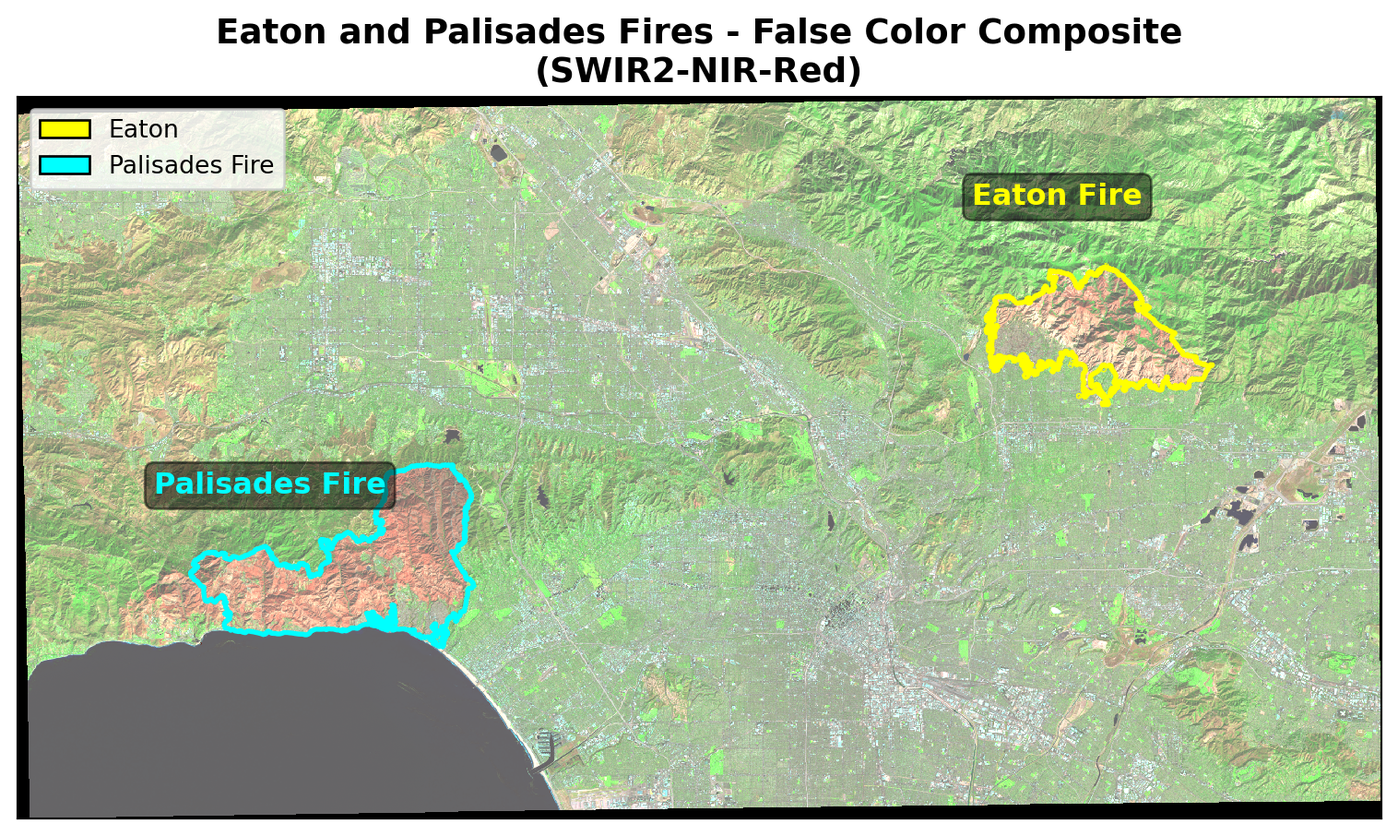
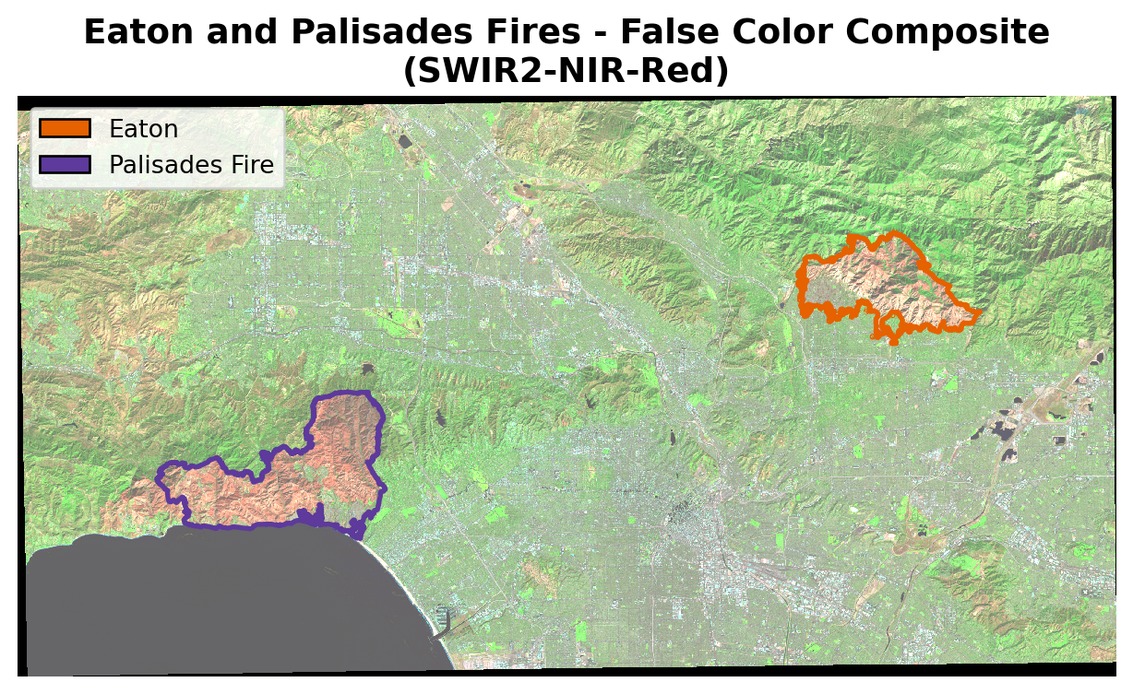
social map fixed.

diff --git a/docs/posts/2025-12-12-EDS220_Blog/FInalBlog.html b/docs/posts/2025-12-12-EDS220_Blog/FInalBlog.html
@@ -190,7 +190,10 @@ pre > code.sourceCode > span > a:first-child::before { text-decoration: underlin
   </ul></li>
   <li><a href="#load-necessary-packages" id="toc-load-necessary-packages" class="nav-link" data-scroll-target="#load-necessary-packages">Load necessary packages</a></li>
   <li><a href="#data-loading-and-intergration-for-wildfire-impact-analysis" id="toc-data-loading-and-intergration-for-wildfire-impact-analysis" class="nav-link" data-scroll-target="#data-loading-and-intergration-for-wildfire-impact-analysis">Data Loading and Intergration for Wildfire Impact Analysis</a></li>
-  <li><a href="#data-exploration-and-wrangling" id="toc-data-exploration-and-wrangling" class="nav-link" data-scroll-target="#data-exploration-and-wrangling">Data Exploration and Wrangling</a></li>
+  <li><a href="#data-exploration-and-wrangling" id="toc-data-exploration-and-wrangling" class="nav-link" data-scroll-target="#data-exploration-and-wrangling">Data Exploration and Wrangling</a>
+  <ul class="collapse">
+  <li><a href="#coordinate-reference-system-crs-verification-and-standardization" id="toc-coordinate-reference-system-crs-verification-and-standardization" class="nav-link" data-scroll-target="#coordinate-reference-system-crs-verification-and-standardization">Coordinate Reference System (CRS) Verification and Standardization</a></li>
+  </ul></li>
   <li><a href="#creating-a-false-color-image-to-visualize-fire-damage" id="toc-creating-a-false-color-image-to-visualize-fire-damage" class="nav-link" data-scroll-target="#creating-a-false-color-image-to-visualize-fire-damage">Creating a False Color Image to Visualize Fire Damage</a></li>
   <li><a href="#identifying-affected-communities-using-spatial-analysis" id="toc-identifying-affected-communities-using-spatial-analysis" class="nav-link" data-scroll-target="#identifying-affected-communities-using-spatial-analysis">Identifying Affected Communities Using Spatial Analysis</a></li>
   </ul>
@@ -217,17 +220,23 @@ pre > code.sourceCode > span > a:first-child::before { text-decoration: underlin
 </ol>
 <section id="about-the-data" class="level2">
 <h2 class="anchored" data-anchor-id="about-the-data">About the Data:</h2>
-<p><strong>Landsat Collection 2 Level-2:</strong></p>
+<ol type="1">
+<li><strong>Landsat Collection 2 Level-2:</strong></li>
+</ol>
 <p>Atmospherically corrected surface reflectance data, collected by Landsat 8 satellite. Data retrieved from <a href="https://planetarycomputer.microsoft.com/dataset/landsat-c2-l2">Microsof Planetary Computer data catalogue</a> and clipped to an area surroundeding the fire perimeters.For visualization and educational purposes.</p>
-<p><strong>Dissolved Eaton and Palisades Fire Perimeters:</strong></p>
+<ol start="2" type="1">
+<li><strong>Dissolved Eaton and Palisades Fire Perimeters:</strong></li>
+</ol>
 <p>Features layers are publically avilable from <a href="https://egis-lacounty.hub.arcgis.com/maps/ad51845ea5fb4eb483bc2a7c38b2370c/about">LA County REST web</a> ArcGIS Hub. Containg heat perimeters for the Palisades and Eaton Fires.</p>
-<p><strong>EJI Data</strong></p>
+<ol start="3" type="1">
+<li><strong>EJI Data</strong></li>
+</ol>
 <p>The 2024 EJI geodatabase data for California is publicaly avialble in <a href="https://www.atsdr.cdc.gov/place-health/php/eji/eji-data-download.html">Agency for Toxic Substance Disease Registery (ATSDR)</a></p>
 </section>
 </section>
 <section id="load-necessary-packages" class="level1">
 <h1>Load necessary packages</h1>
-<div id="b26c050c" class="cell" data-tags="[]" data-execution_count="1">
+<div id="db1bd2d8" class="cell" data-tags="[]" data-execution_count="1">
 <div class="code-copy-outer-scaffold"><div class="sourceCode cell-code" id="cb1"><pre class="sourceCode python code-with-copy"><code class="sourceCode python"><span id="cb1-1"><a href="#cb1-1" aria-hidden="true" tabindex="-1"></a><span class="im">import</span> os</span>
 <span id="cb1-2"><a href="#cb1-2" aria-hidden="true" tabindex="-1"></a><span class="im">import</span> numpy <span class="im">as</span> np</span>
 <span id="cb1-3"><a href="#cb1-3" aria-hidden="true" tabindex="-1"></a><span class="im">import</span> pandas <span class="im">as</span> pd</span>
@@ -242,7 +251,7 @@ pre > code.sourceCode > span > a:first-child::before { text-decoration: underlin
 <section id="data-loading-and-intergration-for-wildfire-impact-analysis" class="level1">
 <h1>Data Loading and Intergration for Wildfire Impact Analysis</h1>
 <p>The following code loads three key geospatial datasets for analyzing the January 2025 Southern California wildfires: 1. Wildfire Perimeter Data: Imports shapefiles containing the mapped boundaries of the Eaton and Palisades fires as of January 21, 2025, using GeoPandas for vector geometry handling. 2. Satellite Imagery: Loads Landsat 8 multispectral satellite data (NetCDF format) captured on February 23, 2025, covering both fire-affected areas using <code>xarray</code> for efficient multidimensional array processing. 3. Environmental Justice Index (EJI): Imports California’s 2024 Environmental Justice Index data from a geodatabase, which provides socioeconomic and environmental health vulnerability metrics at the census tract level. Together, these datasets enable spatial analysis combining fire extent, post-fire satellite observations, and community vulnerability indicators to assess wildfire impacts on different populations.</p>
-<div id="6be07bc0" class="cell" data-execution_count="2">
+<div id="59d1475c" class="cell" data-execution_count="2">
 <div class="code-copy-outer-scaffold"><div class="sourceCode cell-code" id="cb2"><pre class="sourceCode python code-with-copy"><code class="sourceCode python"><span id="cb2-1"><a href="#cb2-1" aria-hidden="true" tabindex="-1"></a><span class="co"># Load wildfire perimeter data for the Eaton and Palisades fires (January 21, 2025)</span></span>
 <span id="cb2-2"><a href="#cb2-2" aria-hidden="true" tabindex="-1"></a>eaton <span class="op">=</span> gpd.read_file(</span>
 <span id="cb2-3"><a href="#cb2-3" aria-hidden="true" tabindex="-1"></a>  os.path.join(<span class="st">"data"</span>,<span class="st">"eaton_perimeter"</span>, </span>
@@ -276,7 +285,7 @@ pre > code.sourceCode > span > a:first-child::before { text-decoration: underlin
 </ol>
 <p>Reviews the California EJI geodatabase structure, including census tract identifiers, vulnerability indicators, and demographic attributes to understand available metrics for analyzing disproportionate wildfire impacts on vulnerable communities.</p>
 <p>This exploratory step is essential for understanding data organization before performing spatial analysis, ensuring the datasets are properly formatted and identifying which attributes and bands are available for subsequent wildfire impact assessment.</p>
-<div id="793b1b79" class="cell" data-execution_count="3">
+<div id="8815eab5" class="cell" data-execution_count="3">
 <div class="code-copy-outer-scaffold"><div class="sourceCode cell-code" id="cb3"><pre class="sourceCode python code-with-copy"><code class="sourceCode python"><span id="cb3-1"><a href="#cb3-1" aria-hidden="true" tabindex="-1"></a><span class="co"># Display DataFrame structure and metadata for both fire perimeters</span></span>
 <span id="cb3-2"><a href="#cb3-2" aria-hidden="true" tabindex="-1"></a><span class="bu">print</span>(<span class="ss">f"</span><span class="ch">\n</span><span class="ss">Eaton Fire Perimeter: "</span>)</span>
 <span id="cb3-3"><a href="#cb3-3" aria-hidden="true" tabindex="-1"></a>eaton.info()</span>
@@ -337,9 +346,9 @@ dtypes: float64(147), geometry(1), int64(15), object(11)
 memory usage: 12.1+ MB</code></pre>
 </div>
 </div>
-<section id="coordinate-reference-system-crs-verification-and-standardization" class="level4">
-<h4 class="anchored" data-anchor-id="coordinate-reference-system-crs-verification-and-standardization">Coordinate Reference System (CRS) Verification and Standardization</h4>
-<p>A key step when wortking with spatial data is making sure the coordinate reference systems match for accurate spatial analysis when combining vector data (fire paramters, census tracts) with raster data (satellite imagery).</p>
+<section id="coordinate-reference-system-crs-verification-and-standardization" class="level2">
+<h2 class="anchored" data-anchor-id="coordinate-reference-system-crs-verification-and-standardization">Coordinate Reference System (CRS) Verification and Standardization</h2>
+<p>A key step when working with spatial data is making sure the coordinate reference systems match for accurate spatial analysis when combining vector data (fire parameters, census tracts) with raster data (satellite imagery).</p>
 <p>The following code checks and standardizes the CRS’s across all datasets to ensure spatial compatibility:</p>
 <ol type="1">
 <li><strong>CRS Inspection:</strong></li>
@@ -349,7 +358,7 @@ memory usage: 12.1+ MB</code></pre>
 <li><strong>CRS Standardization:</strong></li>
 </ol>
 <p>Reprojects all datasets to a common coordinate reference system, ensuring that spatial overlays, intersections, and distance calculations are geometrically valid for integrated wildfire impact analysis.</p>
-<div id="101639d7" class="cell" data-tags="[]" data-execution_count="4">
+<div id="cc215ea6" class="cell" data-tags="[]" data-execution_count="4">
 <div class="code-copy-outer-scaffold"><div class="sourceCode cell-code" id="cb5"><pre class="sourceCode python code-with-copy"><code class="sourceCode python"><span id="cb5-1"><a href="#cb5-1" aria-hidden="true" tabindex="-1"></a><span class="co"># Check CRS for all datasets</span></span>
 <span id="cb5-2"><a href="#cb5-2" aria-hidden="true" tabindex="-1"></a><span class="bu">print</span>(<span class="st">"</span><span class="ch">\n</span><span class="st">Coordinate Reference Systems:"</span>)</span>
 <span id="cb5-3"><a href="#cb5-3" aria-hidden="true" tabindex="-1"></a><span class="bu">print</span>(<span class="ss">f"Eaton Fire CRS: </span><span class="sc">{</span>eaton<span class="sc">.</span>crs<span class="sc">}</span><span class="ss">"</span>)</span>
@@ -383,7 +392,7 @@ Landsat 8 CRS: None</code></pre>
 </ol>
 <p>Assigns the appropriate CRS to the Landsat 8 data (if missing) and reprojects it to match the reference CRS, ensuring all datasets share a common coordinate system for integrated spatial analysis.</p>
 <p>This approach first recovers the Landsat’s native CRS from its metadata, then harmonizes all datasets to ensure spatial compatibility.</p>
-<div id="7e6a4bd6" class="cell" data-tags="[]" data-execution_count="5">
+<div id="c7e85b6f" class="cell" data-tags="[]" data-execution_count="5">
 <div class="code-copy-outer-scaffold"><div class="sourceCode cell-code" id="cb7"><pre class="sourceCode python code-with-copy"><code class="sourceCode python"><span id="cb7-1"><a href="#cb7-1" aria-hidden="true" tabindex="-1"></a><span class="co"># Recover embedded spatial reference information</span></span>
 <span id="cb7-2"><a href="#cb7-2" aria-hidden="true" tabindex="-1"></a><span class="bu">print</span>(<span class="st">'</span><span class="ch">\n</span><span class="st">Spatial reference (CRS_WKT):'</span>)</span>
 <span id="cb7-3"><a href="#cb7-3" aria-hidden="true" tabindex="-1"></a><span class="bu">print</span>(landsat8.spatial_ref.crs_wkt)</span>
@@ -436,8 +445,10 @@ Landsat 8 CRS: EPSG:3857</code></pre>
 <ul>
 <li>Satellite imagery often contains NaN values where data collection failed (due to clouds, sensor issues, etc.). These NaN values cause warnings and conversion errors during plotting. Filling them with zero ensures clean visualization without interrupting the color scaling.</li>
 </ul>
-<p><strong>Step 2:</strong></p>
-<p>Align Coordinate Systems - Here we will have to change the fire perimeters to match the Landsat imagery’s CRS for accurate overlay</p>
+<p><strong>Step 2: Align Coordinate Systems</strong></p>
+<ul>
+<li>Here we will have to change the fire perimeters to match the Landsat imagery’s CRS for accurate overlay.</li>
+</ul>
 <p><strong>Step 3: Create False Color Composite Map</strong></p>
 <p>Combine shortwave infrared, near-infrared, and red bands to create a false color image that makes burned areas stand out, then overlay fire perimeters:</p>
 <ul>
@@ -455,54 +466,55 @@ Landsat 8 CRS: EPSG:3857</code></pre>
 <li><p>Water appears very dark or black</p></li>
 </ul>
 <p>In this composite, healthy vegetation appears bright red, burned areas appear dark brown/black, and urban areas appear gray-green, making fire damage easily visible.</p>
-<div id="ed299af1" class="cell" data-tags="[]" data-execution_count="6">
-<div class="code-copy-outer-scaffold"><div class="sourceCode cell-code" id="cb9"><pre class="sourceCode python code-with-copy"><code class="sourceCode python"><span id="cb9-1"><a href="#cb9-1" aria-hidden="true" tabindex="-1"></a><span class="co"># Fill missing values with zero</span></span>
-<span id="cb9-2"><a href="#cb9-2" aria-hidden="true" tabindex="-1"></a>landsat8 <span class="op">=</span> landsat8.fillna(<span class="dv">0</span>)</span>
-<span id="cb9-3"><a href="#cb9-3" aria-hidden="true" tabindex="-1"></a></span>
-<span id="cb9-4"><a href="#cb9-4" aria-hidden="true" tabindex="-1"></a><span class="co"># create figure </span></span>
-<span id="cb9-5"><a href="#cb9-5" aria-hidden="true" tabindex="-1"></a>fig, ax <span class="op">=</span> plt.subplots(figsize<span class="op">=</span> (<span class="dv">8</span>, <span class="dv">10</span>))</span>
-<span id="cb9-6"><a href="#cb9-6" aria-hidden="true" tabindex="-1"></a></span>
-<span id="cb9-7"><a href="#cb9-7" aria-hidden="true" tabindex="-1"></a><span class="co"># Plot false color image swir22/nir08/red </span></span>
-<span id="cb9-8"><a href="#cb9-8" aria-hidden="true" tabindex="-1"></a>landsat8[[<span class="st">"swir22"</span>, <span class="st">"nir08"</span>, <span class="st">"red"</span>]].to_array().plot.imshow(</span>
-<span id="cb9-9"><a href="#cb9-9" aria-hidden="true" tabindex="-1"></a>ax <span class="op">=</span> ax,</span>
-<span id="cb9-10"><a href="#cb9-10" aria-hidden="true" tabindex="-1"></a>robust<span class="op">=</span> <span class="va">True</span>)</span>
-<span id="cb9-11"><a href="#cb9-11" aria-hidden="true" tabindex="-1"></a></span>
-<span id="cb9-12"><a href="#cb9-12" aria-hidden="true" tabindex="-1"></a><span class="co"># Plot fire perimeters</span></span>
-<span id="cb9-13"><a href="#cb9-13" aria-hidden="true" tabindex="-1"></a>eaton.plot(ax<span class="op">=</span>ax, facecolor<span class="op">=</span> <span class="st">'none'</span>, edgecolor<span class="op">=</span> <span class="st">'yellow'</span>, linewidth<span class="op">=</span> <span class="dv">2</span>, label<span class="op">=</span> <span class="st">'Eaton Fires'</span>)</span>
-<span id="cb9-14"><a href="#cb9-14" aria-hidden="true" tabindex="-1"></a>palisades.plot(ax<span class="op">=</span>ax, facecolor<span class="op">=</span> <span class="st">'none'</span>, edgecolor<span class="op">=</span> <span class="st">'cyan'</span>, linewidth<span class="op">=</span> <span class="dv">2</span>, label<span class="op">=</span> <span class="st">'Palisades Fires'</span>)</span>
-<span id="cb9-15"><a href="#cb9-15" aria-hidden="true" tabindex="-1"></a></span>
-<span id="cb9-16"><a href="#cb9-16" aria-hidden="true" tabindex="-1"></a>ax.set_title(<span class="st">'Eaton and Palisades Fires - False Color Composite</span><span class="ch">\n</span><span class="st">(SWIR2-NIR-Red)'</span>, </span>
-<span id="cb9-17"><a href="#cb9-17" aria-hidden="true" tabindex="-1"></a>             fontsize<span class="op">=</span><span class="dv">14</span>, fontweight<span class="op">=</span><span class="st">'bold'</span>)</span>
-<span id="cb9-18"><a href="#cb9-18" aria-hidden="true" tabindex="-1"></a><span class="co">#ax.set_xlabel('Longitude')</span></span>
-<span id="cb9-19"><a href="#cb9-19" aria-hidden="true" tabindex="-1"></a><span class="co">#ax.set_ylabel('Latitude')</span></span>
-<span id="cb9-20"><a href="#cb9-20" aria-hidden="true" tabindex="-1"></a></span>
-<span id="cb9-21"><a href="#cb9-21" aria-hidden="true" tabindex="-1"></a><span class="co"># Remove axes ticks</span></span>
-<span id="cb9-22"><a href="#cb9-22" aria-hidden="true" tabindex="-1"></a>ax.set_xticks([])  </span>
-<span id="cb9-23"><a href="#cb9-23" aria-hidden="true" tabindex="-1"></a>ax.set_yticks([])  </span>
-<span id="cb9-24"><a href="#cb9-24" aria-hidden="true" tabindex="-1"></a></span>
-<span id="cb9-25"><a href="#cb9-25" aria-hidden="true" tabindex="-1"></a><span class="co"># Remove axes labels</span></span>
-<span id="cb9-26"><a href="#cb9-26" aria-hidden="true" tabindex="-1"></a>ax.set_xlabel(<span class="st">""</span>)  </span>
-<span id="cb9-27"><a href="#cb9-27" aria-hidden="true" tabindex="-1"></a>ax.set_ylabel(<span class="st">""</span>) </span>
+<div id="bf1ad38b" class="cell" data-tags="[]" data-execution_count="6">
+<div class="code-copy-outer-scaffold"><div class="sourceCode cell-code" id="cb9"><pre class="sourceCode python code-with-copy"><code class="sourceCode python"><span id="cb9-1"><a href="#cb9-1" aria-hidden="true" tabindex="-1"></a>fig, ax <span class="op">=</span> plt.subplots(figsize<span class="op">=</span> (<span class="dv">8</span>, <span class="dv">10</span>))</span>
+<span id="cb9-2"><a href="#cb9-2" aria-hidden="true" tabindex="-1"></a></span>
+<span id="cb9-3"><a href="#cb9-3" aria-hidden="true" tabindex="-1"></a><span class="co"># Plot false color image swir22/nir08/red </span></span>
+<span id="cb9-4"><a href="#cb9-4" aria-hidden="true" tabindex="-1"></a>bands <span class="op">=</span>  landsat8[[<span class="st">"swir22"</span>, <span class="st">"nir08"</span>, <span class="st">"red"</span>]].to_array().fillna(<span class="dv">0</span>)</span>
+<span id="cb9-5"><a href="#cb9-5" aria-hidden="true" tabindex="-1"></a></span>
+<span id="cb9-6"><a href="#cb9-6" aria-hidden="true" tabindex="-1"></a>bands.plot.imshow(</span>
+<span id="cb9-7"><a href="#cb9-7" aria-hidden="true" tabindex="-1"></a>ax <span class="op">=</span> ax, <span class="co"># assign axis</span></span>
+<span id="cb9-8"><a href="#cb9-8" aria-hidden="true" tabindex="-1"></a>robust<span class="op">=</span> <span class="va">True</span>) <span class="co"># removes cloud cover</span></span>
+<span id="cb9-9"><a href="#cb9-9" aria-hidden="true" tabindex="-1"></a></span>
+<span id="cb9-10"><a href="#cb9-10" aria-hidden="true" tabindex="-1"></a><span class="co"># Set Fire perimeter legend format</span></span>
+<span id="cb9-11"><a href="#cb9-11" aria-hidden="true" tabindex="-1"></a>eaton_patch <span class="op">=</span> mpatches.Patch(facecolor <span class="op">=</span> <span class="st">"#E66100"</span>, </span>
+<span id="cb9-12"><a href="#cb9-12" aria-hidden="true" tabindex="-1"></a>                             edgecolor <span class="op">=</span> <span class="st">"black"</span>, label<span class="op">=</span> <span class="st">"Eaton"</span>)</span>
+<span id="cb9-13"><a href="#cb9-13" aria-hidden="true" tabindex="-1"></a></span>
+<span id="cb9-14"><a href="#cb9-14" aria-hidden="true" tabindex="-1"></a>palisades_patch <span class="op">=</span> mpatches.Patch(facecolor <span class="op">=</span> <span class="st">"#5D3A9B"</span>, </span>
+<span id="cb9-15"><a href="#cb9-15" aria-hidden="true" tabindex="-1"></a>                                 edgecolor <span class="op">=</span> <span class="st">"black"</span>, label<span class="op">=</span> <span class="st">"Palisades Fire"</span> )</span>
+<span id="cb9-16"><a href="#cb9-16" aria-hidden="true" tabindex="-1"></a>                                 </span>
+<span id="cb9-17"><a href="#cb9-17" aria-hidden="true" tabindex="-1"></a></span>
+<span id="cb9-18"><a href="#cb9-18" aria-hidden="true" tabindex="-1"></a><span class="co">#  Plot fire perimeters with edgecolor representation </span></span>
+<span id="cb9-19"><a href="#cb9-19" aria-hidden="true" tabindex="-1"></a>eaton.plot(ax<span class="op">=</span>ax, facecolor<span class="op">=</span> <span class="st">'none'</span>, </span>
+<span id="cb9-20"><a href="#cb9-20" aria-hidden="true" tabindex="-1"></a>           edgecolor<span class="op">=</span> <span class="st">'#E66100'</span>, </span>
+<span id="cb9-21"><a href="#cb9-21" aria-hidden="true" tabindex="-1"></a>           linewidth<span class="op">=</span> <span class="dv">2</span>, </span>
+<span id="cb9-22"><a href="#cb9-22" aria-hidden="true" tabindex="-1"></a>           label<span class="op">=</span> <span class="st">'Eaton Fires'</span>)</span>
+<span id="cb9-23"><a href="#cb9-23" aria-hidden="true" tabindex="-1"></a></span>
+<span id="cb9-24"><a href="#cb9-24" aria-hidden="true" tabindex="-1"></a>palisades.plot(ax<span class="op">=</span>ax, facecolor<span class="op">=</span> <span class="st">'none'</span>, </span>
+<span id="cb9-25"><a href="#cb9-25" aria-hidden="true" tabindex="-1"></a>               edgecolor<span class="op">=</span> <span class="st">'#5D3A9B'</span>, </span>
+<span id="cb9-26"><a href="#cb9-26" aria-hidden="true" tabindex="-1"></a>               linewidth<span class="op">=</span> <span class="dv">2</span>, </span>
+<span id="cb9-27"><a href="#cb9-27" aria-hidden="true" tabindex="-1"></a>               label<span class="op">=</span> <span class="st">'Palisades Fires'</span>)</span>
 <span id="cb9-28"><a href="#cb9-28" aria-hidden="true" tabindex="-1"></a></span>
-<span id="cb9-29"><a href="#cb9-29" aria-hidden="true" tabindex="-1"></a>eaton_patch <span class="op">=</span> mpatches.Patch(facecolor <span class="op">=</span> <span class="st">"yellow"</span>, edgecolor <span class="op">=</span> <span class="st">"black"</span>, label<span class="op">=</span> <span class="st">"Eaton"</span>)</span>
-<span id="cb9-30"><a href="#cb9-30" aria-hidden="true" tabindex="-1"></a>palisades_patch <span class="op">=</span> mpatches.Patch(facecolor <span class="op">=</span> <span class="st">"cyan"</span>, edgecolor <span class="op">=</span> <span class="st">"black"</span>, label<span class="op">=</span> <span class="st">"Palisades Fire"</span> )</span>
-<span id="cb9-31"><a href="#cb9-31" aria-hidden="true" tabindex="-1"></a><span class="co">#ax.legend(loc='upper right', fontsize=10)</span></span>
-<span id="cb9-32"><a href="#cb9-32" aria-hidden="true" tabindex="-1"></a>ax.legend(handles <span class="op">=</span> [eaton_patch, palisades_patch], loc<span class="op">=</span><span class="st">'upper left'</span>, fontsize<span class="op">=</span> <span class="dv">10</span>) </span>
-<span id="cb9-33"><a href="#cb9-33" aria-hidden="true" tabindex="-1"></a></span>
-<span id="cb9-34"><a href="#cb9-34" aria-hidden="true" tabindex="-1"></a><span class="co"># Add text annotations to identify fires</span></span>
-<span id="cb9-35"><a href="#cb9-35" aria-hidden="true" tabindex="-1"></a>ax.text(<span class="fl">0.70</span>, <span class="fl">0.85</span>, <span class="st">'Eaton Fire'</span>, transform<span class="op">=</span>ax.transAxes, </span>
-<span id="cb9-36"><a href="#cb9-36" aria-hidden="true" tabindex="-1"></a>        fontsize<span class="op">=</span><span class="dv">12</span>, color<span class="op">=</span><span class="st">'yellow'</span>, fontweight<span class="op">=</span><span class="st">'bold'</span>,</span>
-<span id="cb9-37"><a href="#cb9-37" aria-hidden="true" tabindex="-1"></a>        bbox<span class="op">=</span><span class="bu">dict</span>(boxstyle<span class="op">=</span><span class="st">'round'</span>, facecolor<span class="op">=</span><span class="st">'black'</span>, alpha<span class="op">=</span><span class="fl">0.5</span>))</span>
-<span id="cb9-38"><a href="#cb9-38" aria-hidden="true" tabindex="-1"></a>ax.text(<span class="fl">0.10</span>, <span class="fl">0.45</span>, <span class="st">'Palisades Fire'</span>, transform<span class="op">=</span>ax.transAxes, </span>
-<span id="cb9-39"><a href="#cb9-39" aria-hidden="true" tabindex="-1"></a>        fontsize<span class="op">=</span><span class="dv">12</span>, color<span class="op">=</span><span class="st">'cyan'</span>, fontweight<span class="op">=</span><span class="st">'bold'</span>,</span>
-<span id="cb9-40"><a href="#cb9-40" aria-hidden="true" tabindex="-1"></a>        bbox<span class="op">=</span><span class="bu">dict</span>(boxstyle<span class="op">=</span><span class="st">'round'</span>, facecolor<span class="op">=</span><span class="st">'black'</span>, alpha<span class="op">=</span><span class="fl">0.5</span>))</span>
+<span id="cb9-29"><a href="#cb9-29" aria-hidden="true" tabindex="-1"></a></span>
+<span id="cb9-30"><a href="#cb9-30" aria-hidden="true" tabindex="-1"></a></span>
+<span id="cb9-31"><a href="#cb9-31" aria-hidden="true" tabindex="-1"></a><span class="co"># add legend if not using name lables</span></span>
+<span id="cb9-32"><a href="#cb9-32" aria-hidden="true" tabindex="-1"></a>ax.legend(handles <span class="op">=</span> [eaton_patch, palisades_patch], </span>
+<span id="cb9-33"><a href="#cb9-33" aria-hidden="true" tabindex="-1"></a>          loc<span class="op">=</span><span class="st">'upper left'</span>, fontsize<span class="op">=</span> <span class="dv">10</span>) </span>
+<span id="cb9-34"><a href="#cb9-34" aria-hidden="true" tabindex="-1"></a></span>
+<span id="cb9-35"><a href="#cb9-35" aria-hidden="true" tabindex="-1"></a><span class="co"># Set title</span></span>
+<span id="cb9-36"><a href="#cb9-36" aria-hidden="true" tabindex="-1"></a>ax.set_title(<span class="st">'Eaton and Palisades Fires - False Color Composite</span><span class="ch">\n</span><span class="st">(SWIR2-NIR-Red)'</span>, </span>
+<span id="cb9-37"><a href="#cb9-37" aria-hidden="true" tabindex="-1"></a>             fontsize<span class="op">=</span> <span class="dv">14</span>, fontweight<span class="op">=</span><span class="st">'bold'</span>)</span>
+<span id="cb9-38"><a href="#cb9-38" aria-hidden="true" tabindex="-1"></a></span>
+<span id="cb9-39"><a href="#cb9-39" aria-hidden="true" tabindex="-1"></a><span class="co"># Turn axis off for readability</span></span>
+<span id="cb9-40"><a href="#cb9-40" aria-hidden="true" tabindex="-1"></a>ax.set_axis_off()</span>
 <span id="cb9-41"><a href="#cb9-41" aria-hidden="true" tabindex="-1"></a></span>
-<span id="cb9-42"><a href="#cb9-42" aria-hidden="true" tabindex="-1"></a>plt.tight_layout()</span>
-<span id="cb9-43"><a href="#cb9-43" aria-hidden="true" tabindex="-1"></a>plt.show()</span></code></pre></div><button title="Copy to Clipboard" class="code-copy-button"><i class="bi"></i></button></div>
+<span id="cb9-42"><a href="#cb9-42" aria-hidden="true" tabindex="-1"></a></span>
+<span id="cb9-43"><a href="#cb9-43" aria-hidden="true" tabindex="-1"></a><span class="co"># Print map</span></span>
+<span id="cb9-44"><a href="#cb9-44" aria-hidden="true" tabindex="-1"></a>plt.show()</span></code></pre></div><button title="Copy to Clipboard" class="code-copy-button"><i class="bi"></i></button></div>
 <div class="cell-output cell-output-display">
 <div>
 <figure class="figure">
-<p><img src="FInalBlog_files/figure-html/cell-7-output-1.png" width="758" height="453" class="figure-img"></p>
+<p><img src="FInalBlog_files/figure-html/cell-7-output-1.png" width="614" height="377" class="figure-img"></p>
 </figure>
 </div>
 </div>
@@ -515,33 +527,46 @@ Landsat 8 CRS: EPSG:3857</code></pre>
 <section id="identifying-affected-communities-using-spatial-analysis" class="level1">
 <h1>Identifying Affected Communities Using Spatial Analysis</h1>
 <p>This section demonstrates how to identify which census tracts were impacted by each fire and visualize socioeconomic vulnerability patterns in the affected areas.</p>
-<p><strong>Step 1:</strong> Spatial Join - Finding Intersecting Census Tracts Use a spatial join to identify which census tracts intersect with each fire perimeter:</p>
+<p><strong>Step 1:Spatial Join </strong></p>
 <ul>
-<li><p><code>gpd.sjoin()</code> performs a spatial join - it matches features from two datasets based on their geographic relationship</p></li>
+<li><p>Finding Intersecting Census Tracts Use a spatial join to identify which census tracts intersect with each fire perimeter:</p>
+<ul>
+<li><p><code>gpd.sjoin()</code> performs a spatial join to match features from two datasets based on their geographic relationship</p></li>
 <li><p><code>predicate="intersects</code> means “include any census tract that touches or overlaps the fire boundary”</p></li>
+</ul></li>
 <li><p>This returns complete census tracts, even if only a small portion overlaps the fire</p></li>
 </ul>
-<p><strong>Step 2:</strong> Clipping - Precise Fire Impact Areas Clip the census tracts to show only the portions actually within each fire perimeter:</p>
+<p><strong>Step 2:Clipping </strong></p>
 <ul>
+<li><p>Precise Fire Impact Areas Clip the census tracts to show only the portions actually within each fire perimeter:</p></li>
 <li><p>Clipping cuts the census tract geometries at the fire boundary, showing only the affected portions</p></li>
 <li><p>Spatial join includes entire census tracts, which can overestimate the impacted area</p></li>
 <li><p>For visualizing communities directly affected by fire, clipping provides more accurate spatial representation</p></li>
 </ul>
-<p><strong>Step 3:</strong> Visualize Clipped Areas Create maps showing the precise areas affected by each fire:</p>
-<p><strong>Step 4:</strong> Add Geographic Context with Basemap Add a real-world basemap to show where the fires occurred in LA County:</p>
+<p><strong>Step 3: Visualize</strong></p>
+<ul>
+<li>Map Clipped Areas showing the precise areas affected by each fire.</li>
+</ul>
+<p><strong>Step 4:Geographic Context </strong></p>
+<ul>
+<li><p>With <code>Basemap</code> add a real-world basemap to show where the fires occurred in LA County</p>
 <ul>
 <li><p>Provides real-world geographic context (roads, cities, landmarks)</p></li>
 <li><p>Makes it easier to understand where fires occurred relative to populated areas</p></li>
+</ul></li>
 <li><p>This where <code>contextily</code> become needed <code>ctx</code> automatically fetches map tiles that match your data’s extent and CRS</p></li>
 </ul>
-<p><strong>Step 5:</strong> Visualize Socioeconomic Vulnerability Compare vulnerability indicators between the two fire areas using the Environmental Justice Index data:</p>
+<p><strong>Step 5: Map Socioeconomic Vulnerability </strong></p>
+<ul>
+<li>Compare vulnerability indicators between the two fire areas using the Environmental Justice Index data.</li>
+</ul>
 <p><strong>Why this matters?</strong> This visualization reveals whether the fires disproportionately affected vulnerable communities, which has important implications for:</p>
 <ul>
 <li><p>Resource allocation for recovery efforts.</p></li>
 <li><p>Identifying communities needing additional support.</p></li>
 <li><p>Understanding environmental justice dimensions of wildfire impacts.</p></li>
 </ul>
-<div id="398f36e1" class="cell" data-tags="[]" data-execution_count="7">
+<div id="7bdfb5f5" class="cell" data-tags="[]" data-execution_count="7">
 <div class="code-copy-outer-scaffold"><div class="sourceCode cell-code" id="cb10"><pre class="sourceCode python code-with-copy"><code class="sourceCode python"><span id="cb10-1"><a href="#cb10-1" aria-hidden="true" tabindex="-1"></a><span class="co"># Find census tracts that intersect with Palisades fire</span></span>
 <span id="cb10-2"><a href="#cb10-2" aria-hidden="true" tabindex="-1"></a>eji_palisades <span class="op">=</span> gpd.sjoin(cali_eji, palisades, predicate<span class="op">=</span><span class="st">"intersects"</span>)</span>
 <span id="cb10-3"><a href="#cb10-3" aria-hidden="true" tabindex="-1"></a></span>
@@ -591,7 +616,7 @@ Landsat 8 CRS: EPSG:3857</code></pre>
 </div>
 </div>
 </div>
-<div id="2e198e68" class="cell" data-tags="[]" data-execution_count="8">
+<div id="e73d3d91" class="cell" data-tags="[]" data-execution_count="8">
 <div class="code-copy-outer-scaffold"><div class="sourceCode cell-code" id="cb11"><pre class="sourceCode python code-with-copy"><code class="sourceCode python"><span id="cb11-1"><a href="#cb11-1" aria-hidden="true" tabindex="-1"></a><span class="co"># Create figure</span></span>
 <span id="cb11-2"><a href="#cb11-2" aria-hidden="true" tabindex="-1"></a>fig, ax <span class="op">=</span> plt.subplots(figsize<span class="op">=</span>(<span class="dv">8</span>, <span class="dv">10</span>))</span>
 <span id="cb11-3"><a href="#cb11-3" aria-hidden="true" tabindex="-1"></a></span>
@@ -621,7 +646,7 @@ Landsat 8 CRS: EPSG:3857</code></pre>
 </div>
 </div>
 </div>
-<div id="79541283" class="cell" data-tags="[]" data-execution_count="9">
+<div id="c9c6b11a" class="cell" data-tags="[]" data-execution_count="9">
 <div class="code-copy-outer-scaffold"><div class="sourceCode cell-code" id="cb12"><pre class="sourceCode python code-with-copy"><code class="sourceCode python"><span id="cb12-1"><a href="#cb12-1" aria-hidden="true" tabindex="-1"></a>fig, (ax1, ax2) <span class="op">=</span> plt.subplots(<span class="dv">1</span>, <span class="dv">2</span>, figsize<span class="op">=</span>(<span class="dv">8</span>, <span class="dv">10</span>))</span>
 <span id="cb12-2"><a href="#cb12-2" aria-hidden="true" tabindex="-1"></a></span>
 <span id="cb12-3"><a href="#cb12-3" aria-hidden="true" tabindex="-1"></a><span class="co"># Select an EJI variable (e.g., poverty percentile)</span></span>

diff --git a/docs/posts.html b/docs/posts.html
@@ -201,7 +201,7 @@ window.Quarto = {
 
 <div class="quarto-listing quarto-listing-container-grid" id="listing-listing">
 <div class="list grid quarto-listing-cols-3">
-<div class="g-col-1" data-index="0" data-listing-file-modified-sort="1765581782247" data-listing-reading-time-sort="12" data-listing-word-count-sort="2207">
+<div class="g-col-1" data-index="0" data-listing-file-modified-sort="1765586811313" data-listing-reading-time-sort="12" data-listing-word-count-sort="2364">
 <a href="./posts/2025-12-12-EDS220_Blog/FInalBlog.html" class="quarto-grid-link">
 <div class="quarto-grid-item card h-100 card-left">
 <p class="card-img-top"><img src="posts\2025-12-12-EDS220_Blog\FInalBlog_files\figure-html\cell-7-output-1.png" style="height: 150px;"  class="thumbnail-image card-img"/></p>
